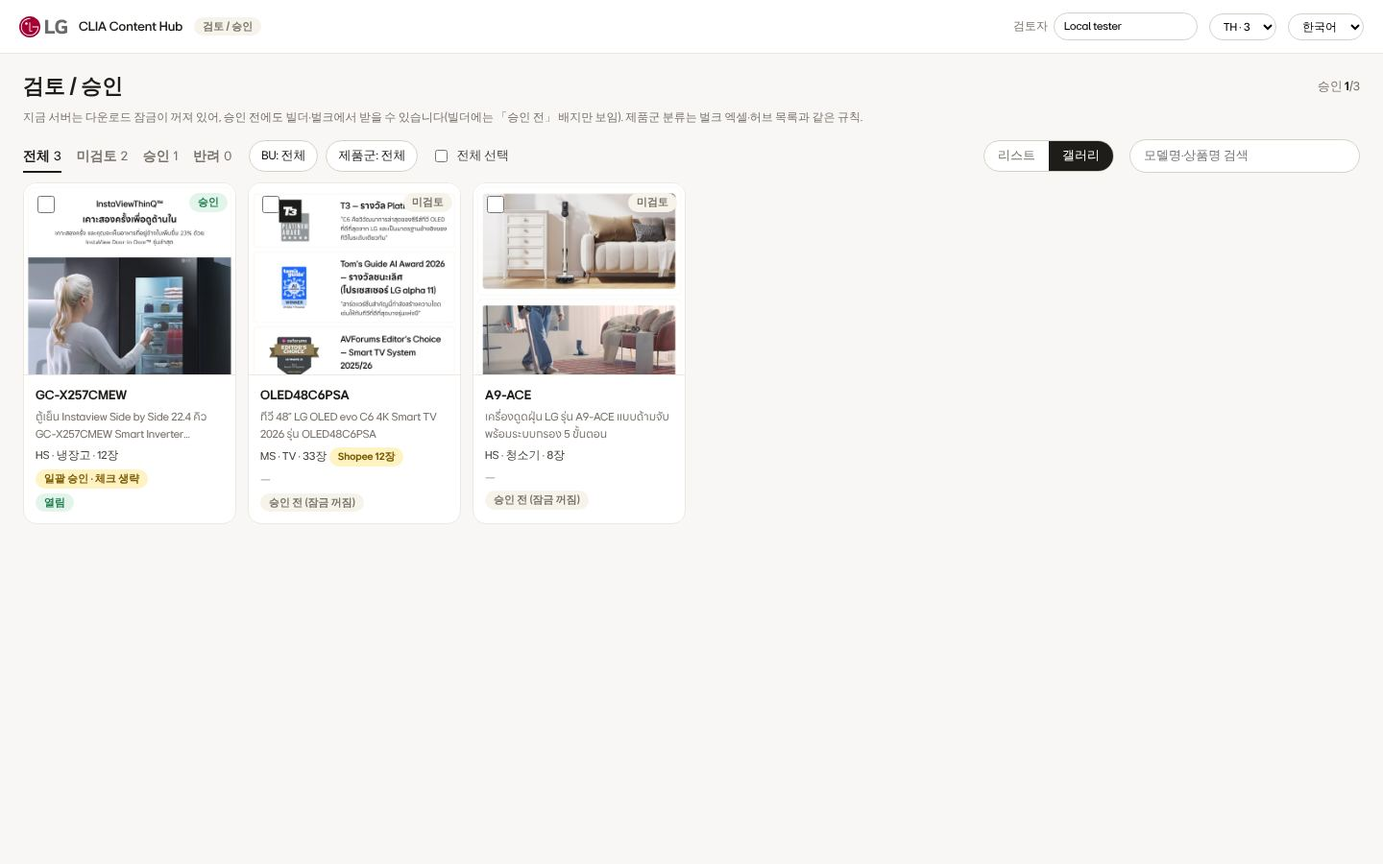
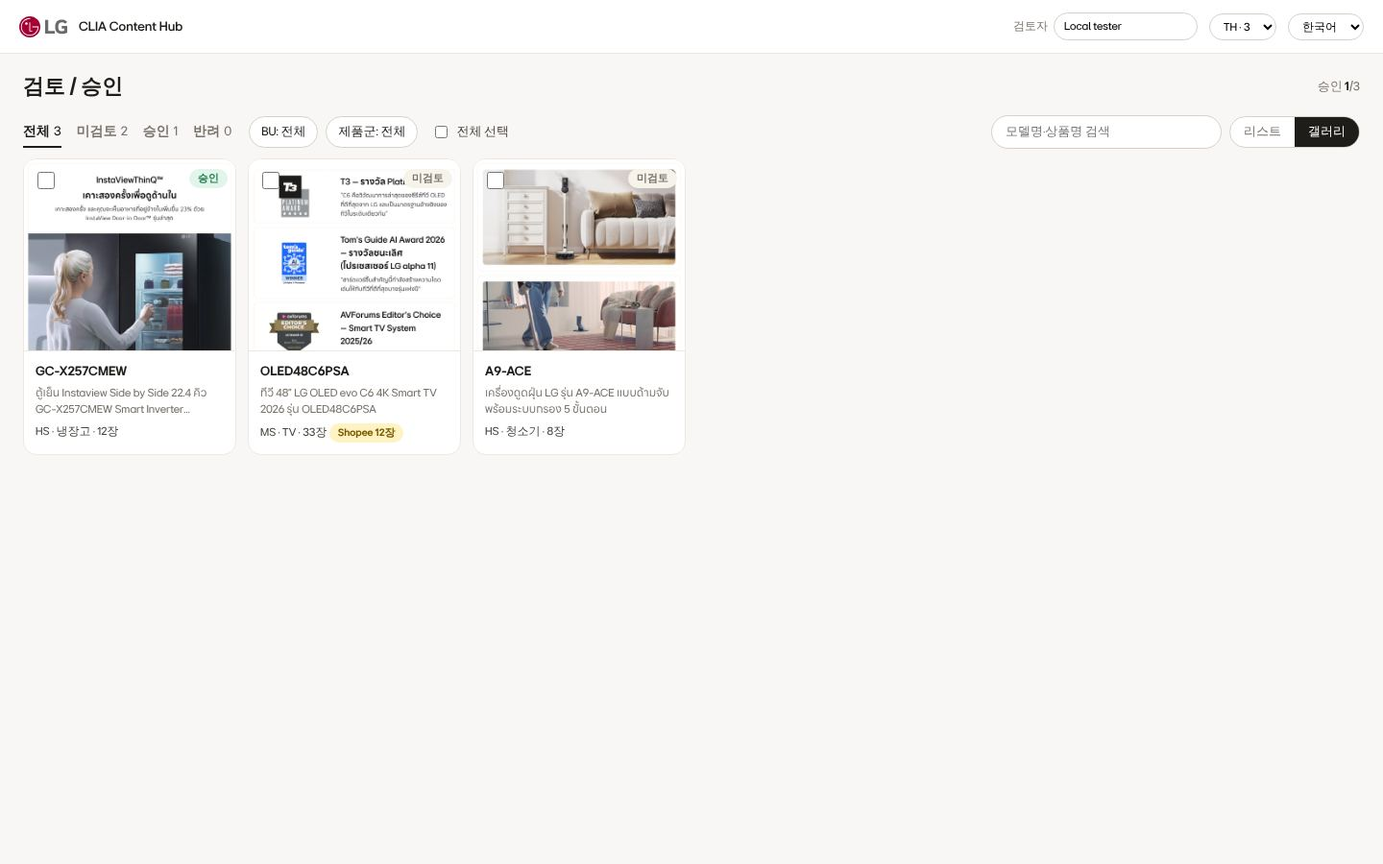
검토 화면 단순화: 버튼 자리 통일 · 덜 중요한 것 빼기
- 이동(←)은 왼쪽 위, 보기 전환(리스트/갤러리 · Shopee/Lazada)은 오른쪽 위 같은 토글,
  결정(승인 · 반려 · 승인 취소 · 선택 승인)은 오른쪽 아래 — 비교 화면은 체크리스트 아래에 코멘트와 함께
- 뺀 것: 안내 문단, 목록의 체크리스트·빌더 다운로드 칸, 선택 준비, LG.com 링크(상품명을 누르면 열림),
  빌더 배지, 패널 머리 부가 설명, 따로 뜨던 「기다리는 중」 배지(같은 영역 이름표 안으로)
- 체크리스트 「다름」 버튼은 지금 보는 항목 · 표시한 항목 · 마우스를 올린 항목에만

Claude-Session: https://claude.ai/code/session_01Qc8KZ9fFX6kBVHrq9Tv6ME

diff --git a/review/index.html b/review/index.html
@@ -65,12 +65,12 @@ td .m,.cb .m{font-weight:700}td .s{font-size:12px;color:var(--g500);max-width:42
 .cb .meta{font-size:12px;color:var(--g700)}
 .empty{text-align:center;color:#999;padding:30px}
 .more{text-align:center;padding:14px}
-.selbar{position:absolute;left:50%;bottom:18px;transform:translateX(-50%);background:var(--g900);color:#fff;border-radius:999px;padding:8px 10px 8px 18px;display:none;gap:10px;align-items:center;box-shadow:0 8px 24px rgba(0,0,0,.25)}
+.selbar{position:absolute;right:24px;bottom:18px;background:var(--g900);color:#fff;border-radius:999px;padding:8px 10px 8px 18px;display:none;gap:10px;align-items:center;box-shadow:0 8px 24px rgba(0,0,0,.25)}
 .selbar.on{display:flex}.selbar small{color:#cfc9bf}
 /* 비교 */
 .chd{display:flex;align-items:center;gap:12px;padding:10px 20px;background:#fff;border-bottom:1px solid var(--line)}
 .chd .id .m{font-weight:700;font-size:16px}.chd .id .s{font-size:12px;color:var(--g500);max-width:460px;white-space:nowrap;overflow:hidden;text-overflow:ellipsis}
-.chd .sp{flex:1}.chd a{font-size:12px;color:var(--g500)}
+.chd .sp{flex:1}.chd a.s{display:block;color:var(--g500);text-decoration:none}.chd a.s:hover{text-decoration:underline}
 .bar{display:flex;align-items:center;gap:8px;padding:8px 20px;background:#fff;border-bottom:1px solid var(--line)}
 .bar input{flex:1;border:1px solid var(--g300);border-radius:999px;padding:7px 14px;font:inherit;font-size:13px}.bar input.err{border-color:var(--bad)}
 .banner{padding:8px 20px;font-size:13px;background:var(--warnb);color:var(--warn);display:flex;gap:10px;align-items:center}.banner[hidden]{display:none}
@@ -105,7 +105,10 @@ td .m,.cb .m{font-weight:700}td .s{font-size:12px;color:var(--g500);max-width:42
 .prep h3{margin:0 0 10px;font-size:16px}.prep ol{margin:0 0 12px;padding-left:20px;font-size:13px;color:var(--g500)}.prep li.on{color:var(--g900);font-weight:700}.prep li.done{color:var(--ok)}
 .prep .err{color:var(--bad);font-size:13px;margin:0 0 10px;word-break:break-word}.prep p{font-size:12px;color:var(--g500);margin:0 0 12px}
 aside{display:flex;flex-direction:column;min-height:0;background:#fff;border-left:1px solid var(--line)}
-.ckh{padding:12px 16px 8px;border-bottom:1px solid var(--line)}.ckh b{font-size:14px}.ckh .p{font-size:12px;color:var(--g500);margin-top:2px}
+.ckh{padding:12px 16px 10px;border-bottom:1px solid var(--line)}.ckh b{font-size:14px}.ckh .p{font-size:12px;color:var(--g500);margin-left:8px}
+.ckf{border-top:1px solid var(--line);padding:10px 12px 12px;display:grid;gap:8px;background:#fff}.ckf .why{font-size:12px;color:var(--g500);min-height:16px}
+.ckf input{width:100%;border:1px solid var(--g300);border-radius:999px;padding:7px 14px;font:inherit;font-size:13px}.ckf input.err{border-color:var(--bad)}
+.ckf .acts{display:flex;gap:8px;justify-content:flex-end}
 .ckh .prog{width:100%;height:6px;margin:8px 0 0}
 .ckl{flex:1;overflow:auto;padding:6px 8px 40px}
 .it{border-radius:10px;padding:8px 10px;margin:2px 0;cursor:pointer;border:1px solid transparent}
@@ -114,7 +117,7 @@ aside{display:flex;flex-direction:column;min-height:0;background:#fff;border-lef
 .it .ic{flex:none;width:18px;height:18px;border-radius:50%;border:2px solid var(--g300);display:inline-flex;align-items:center;justify-content:center;font-size:11px;color:#fff}
 .it.seen .ic{background:var(--ok);border-color:var(--ok)}.it.seen .ic::after{content:'✓'}
 .it.flag .ic{background:var(--bad);border-color:var(--bad)}.it.flag .ic::after{content:'!'}
-.it .t .x{margin-left:auto}.it .t .x button{border:1px solid var(--g300);background:#fff;border-radius:999px;font-size:11px;padding:1px 8px;color:var(--g500);white-space:nowrap}
+.it .t .x{margin-left:auto;visibility:hidden}.it.cur .t .x,.it.flag .t .x,.it:hover .t .x{visibility:visible}.it .t .x button{border:1px solid var(--g300);background:#fff;border-radius:999px;font-size:11px;padding:1px 8px;color:var(--g500);white-space:nowrap}
 .it.flag .t .x button{border-color:var(--bad);color:var(--bad)}
 .it .look{display:none;margin:6px 0 2px 26px;font-size:12px;color:var(--g700)}.it.cur .look,.it.flag .look{display:block}
 .it .look ul{margin:2px 0 6px;padding-left:16px}.it .look li{margin:1px 0}.it .look .sec{color:var(--g500);font-size:11.5px}
@@ -123,7 +126,7 @@ aside{display:flex;flex-direction:column;min-height:0;background:#fff;border-lef
 .toast{position:fixed;left:50%;bottom:24px;transform:translateX(-50%);background:var(--g900);color:#fff;padding:9px 16px;border-radius:999px;font-size:13px;opacity:0;transition:opacity .2s;pointer-events:none;z-index:50}.toast.on{opacity:1}
 </style></head>
 <body>
-<div class="top"><img src="/shared/assets/lg-logo.svg" alt="LG"><span class="t">CLIA Content Hub</span><span class="badge b-q" data-t="appTag"></span><span class="sp"></span>
+<div class="top"><img src="/shared/assets/lg-logo.svg" alt="LG"><span class="t">CLIA Content Hub</span><span class="sp"></span>
  <label class="who"><span data-t="who"></span><input id="who" data-tp="whoPh" autocomplete="name" onchange="setWho(this.value)"></label>
  <select class="sel" id="country" onchange="setCountry(this.value)" aria-label="Country"></select>
  <select class="sel" id="lang" onchange="setLang(this.value)" aria-label="Language"><option value="th">ไทย</option><option value="en">English</option><option value="ko">한국어</option></select>
@@ -131,43 +134,43 @@ aside{display:flex;flex-direction:column;min-height:0;background:#fff;border-lef
 
 <main class="view on" id="vList">
  <div class="lhd"><h2 data-t="h"></h2><span class="sp"></span><span class="cnt" id="okCnt"></span></div>
- <div class="note" id="gateNote"></div>
  <div class="flt">
   <div class="tabs" id="tabs"></div>
   <details class="dd" id="ddDv"><summary id="sDv"></summary><div class="ddp" id="pDv"></div></details>
   <details class="dd" id="ddGrp"><summary id="sGrp"></summary><div class="ddp" id="pGrp"></div></details>
   <label class="selall"><input type="checkbox" id="selAll" onchange="selAll(this.checked)"><span data-t="selAll"></span></label>
   <span class="sp"></span>
-  <div class="seg" id="viewSeg"><button data-v="list" onclick="setView('list')" data-t="viewList"></button><button data-v="grid" onclick="setView('grid')" data-t="viewGrid"></button></div>
   <input class="search" id="q" type="search" data-tp="search" oninput="S.q=this.value;S.page=1;renderList()">
+  <div class="seg" id="viewSeg"><button data-v="list" onclick="setView('list')" data-t="viewList"></button><button data-v="grid" onclick="setView('grid')" data-t="viewGrid"></button></div>
  </div>
  <div class="tbl" id="listBox"><table><thead><tr>
-  <th style="width:36px"></th><th style="width:56px"></th><th data-t="thProd"></th><th data-t="thGrp"></th><th data-t="thImgs"></th><th data-t="thCk"></th><th data-t="thBuild"></th><th data-t="thSt"></th></tr></thead>
+  <th style="width:36px"></th><th style="width:56px"></th><th data-t="thProd"></th><th data-t="thGrp"></th><th data-t="thImgs"></th><th data-t="thSt"></th></tr></thead>
   <tbody id="rows"></tbody></table><div class="more" id="moreL"></div></div>
  <div class="gal" id="galBox" hidden><div class="cards" id="cards"></div><div class="more" id="moreG"></div></div>
- <div class="selbar" id="selbar"><span id="selN"></span><small data-t="selNote"></small><button class="btn" onclick="bulkPrepare()" data-t="prepSel"></button><button class="btn pri" onclick="bulkApprove()" data-t="approveSel"></button><button class="btn" onclick="S.sel.clear();renderList()" data-t="cancel"></button></div>
+ <div class="selbar" id="selbar"><span id="selN"></span><button class="btn" onclick="S.sel.clear();renderList()" data-t="cancel"></button><button class="btn pri" onclick="bulkApprove()" data-t="approveSel"></button></div>
 </main>
 
 <main class="view" id="vCmp">
- <div class="chd"><button class="btn" onclick="closeCmp()">←</button><div class="id"><div class="m" id="cModel"></div><div class="s" id="cTitle" lang="th"></div></div>
-  <span id="cSt"></span><span id="cBuild"></span><a id="cLink" target="_blank" rel="noopener" data-t="openLg"></a><span class="sp"></span>
-  <div class="tabs"><button class="tab" data-c="shopee" onclick="setCh('shopee')">Shopee</button><button class="tab" data-c="lazada" onclick="setCh('lazada')">Lazada</button></div></div>
- <div class="bar"><input id="cmt" data-tp="cmtPh"><button class="btn" id="bUndo" hidden onclick="unapprove()" data-t="unapprove"></button><button class="btn" id="bRej" onclick="reject()" data-t="reject"></button><span class="badge b-q" id="bWhy"></span><button class="btn pri" id="bOk" onclick="approve()" data-t="approve"></button></div>
+ <div class="chd"><button class="btn" onclick="closeCmp()">←</button><div class="id"><div class="m" id="cModel"></div><a class="s" id="cTitle" lang="th" target="_blank" rel="noopener"></a></div>
+  <span id="cSt"></span><span class="sp"></span>
+  <div class="seg" id="chSeg"><button data-c="shopee" onclick="setCh('shopee')">Shopee</button><button data-c="lazada" onclick="setCh('lazada')">Lazada</button></div></div>
  <div class="banner" id="banner" hidden><span id="bannerTx"></span><button class="btn sm" onclick="prepareCur(false)" data-t="reprep"></button></div>
  <div class="main">
   <div class="sc" id="sc">
    <div class="stage" id="stage">
-    <section class="pane"><div class="ph"><span data-t="lgHead"></span> <small data-t="lgSub"></small><span class="r"><span class="badge b-warn" id="cropWarn" hidden></span><span class="badge b-warn wait" id="wL" hidden data-t="waitL"></span><button class="btn sm" id="cropBtn" onclick="toggleCrop()" data-t="cropBtn"></button></span></div>
+    <section class="pane"><div class="ph"><span>LG.com</span><span class="r"><span class="badge b-warn" id="cropWarn" hidden></span><button class="btn sm" id="cropBtn" onclick="toggleCrop()" data-t="cropBtn"></button></span></div>
      <div class="crop-ed" id="cropEd" hidden><span data-t="cropTop"></span><button class="btn sm" onclick="nudge('top',-100)">−100</button><button class="btn sm" onclick="nudge('top',-10)">−10</button><input id="cTop" type="number" onchange="cropInput()"><button class="btn sm" onclick="nudge('top',10)">+10</button><button class="btn sm" onclick="nudge('top',100)">+100</button>
       <span data-t="cropBottom" style="margin-left:8px"></span><button class="btn sm" onclick="nudge('bottom',-100)">−100</button><button class="btn sm" onclick="nudge('bottom',-10)">−10</button><input id="cBot" type="number" onchange="cropInput()"><button class="btn sm" onclick="nudge('bottom',10)">+10</button><button class="btn sm" onclick="nudge('bottom',100)">+100</button>
       <span class="sp" style="flex:1"></span><button class="btn sm" onclick="cropAuto()" data-t="cropAuto"></button><button class="btn sm" onclick="recapture()" data-t="recapture"></button><button class="btn sm pri" onclick="cropSave()" data-t="cropSave"></button></div>
      <div class="vp" id="vpL"><div class="mv" id="mvL"></div><div class="segbox" id="segL" hidden></div><span class="segtag" id="segTagL"></span></div></section>
-    <section class="pane"><div class="ph"><span id="rTitle"></span> <small id="rSub"></small><span class="r"><span class="badge b-warn wait" id="wR" hidden data-t="waitR"></span></span></div><div class="vp" id="vpR"><div class="mv" id="mvR"></div><div class="segbox" id="segR" hidden></div><span class="segtag" id="segTagR"></span></div></section>
+    <section class="pane"><div class="ph"><span id="rTitle"></span><span class="r"><span class="badge b-warn" id="imgWarn" hidden></span></span></div><div class="vp" id="vpR"><div class="mv" id="mvR"></div><div class="segbox" id="segR" hidden></div><span class="segtag" id="segTagR"></span></div></section>
    </div>
    <div id="spacer"></div><div id="snaps"></div>
    <div class="prep" id="prep"><div class="box" id="prepBox"></div></div>
   </div>
-  <aside><div class="ckh"><b data-t="ck"></b><div class="p" id="ckP"></div><div class="p" data-t="segHint"></div><div class="prog"><i id="ckBar"></i></div></div><div class="ckl" id="ckl"></div></aside>
+  <aside><div class="ckh"><b data-t="ck"></b><span class="p" id="ckP"></span><div class="prog"><i id="ckBar"></i></div></div><div class="ckl" id="ckl"></div>
+   <div class="ckf"><div class="why" id="bWhy"></div><input id="cmt" data-tp="cmtPh">
+    <div class="acts"><button class="btn" id="bUndo" hidden onclick="unapprove()" data-t="unapprove"></button><button class="btn" id="bRej" onclick="reject()" data-t="reject"></button><button class="btn pri" id="bOk" onclick="approve()" data-t="approve"></button></div></div></aside>
  </div>
 </main>
 <div class="toast" id="toast"></div>
@@ -175,7 +178,7 @@ aside{display:flex;flex-direction:column;min-height:0;background:#fff;border-lef
 <script>
 // ── 화면 문구 (한국어 · English · ไทย). 제품군 이름은 벌크 엑셀(bulk/bulk-i18n.js)과 같은 낱말. 태국어는 태국 법인 확인 전 ──
 const TX={
- ko:{appTag:'검토 / 승인',segSum:'PDP 요약',segIntro:'도입 (대표 이미지)',segN:n=>`섹션 ${n}`,segNoneL:'LG.com에 없음 · 기다리는 중',segNoneR:'여기는 없음 · 기다리는 중',segHint:'같은 번호·색 = 같은 영역',who:'검토자',whoPh:'이름 (승인 기록에 남음)',whoNeed:'검토자 이름을 먼저 넣어 주세요',h:'검토 / 승인',
+ ko:{appTag:'검토 / 승인',waitShort:'기다리는 중',segSum:'PDP 요약',segIntro:'도입 (대표 이미지)',segN:n=>`섹션 ${n}`,segNoneL:'LG.com에 없음 · 기다리는 중',segNoneR:'여기는 없음 · 기다리는 중',segHint:'같은 번호·색 = 같은 영역',who:'검토자',whoPh:'이름 (승인 기록에 남음)',whoNeed:'검토자 이름을 먼저 넣어 주세요',h:'검토 / 승인',
   gateOn:'승인 전 제품은 빌더의 이미지 ZIP·HTML 복사와 벌크 엑셀 받기가 잠깁니다.',gateOff:'지금 서버는 다운로드 잠금이 꺼져 있어, 승인 전에도 빌더·벌크에서 받을 수 있습니다(빌더에는 「승인 전」 배지만 보임). 제품군 분류는 벌크 엑셀·허브 목록과 같은 규칙.',
   tabAll:'전체',tabUnrev:'미검토',tabOk:'승인',tabRej:'반려',stUnrev:'미검토',stStale:'다시 확인',stOk:'승인',stRej:'반려',
   grpBtn:'제품군',all:'전체',none:'선택 안 함',grpHint:'선택한 BU의 제품군만 고를 수 있습니다',search:'모델명·상품명 검색',viewList:'리스트',viewGrid:'갤러리',selAll:'전체 선택',
@@ -185,7 +188,7 @@ const TX={
   selN:n=>`${n}개 선택`,selNote:'선택 승인은 체크리스트를 건너뛴 일괄 승인으로 기록됩니다',approveSel:'선택 승인',prepSel:'선택 준비',cancel:'취소',okCnt:(n,a)=>`승인 <b>${n}</b>/${a}`,
   bulkToast:n=>`${n}개 일괄 승인`,bulkAsk:n=>`${n}개를 체크리스트 없이 승인할까요? 승인 기록에 「일괄 승인」으로 남습니다.`,prepToast:n=>`${n}개 준비 시작 (한 번에 2개씩)`,saveErr:e=>`저장하지 못함: ${e}`,loadErr:e=>`불러오지 못함: ${e}`,
   cmtPh:'코멘트 (반려할 때 필요)',reject:'반려',approve:'승인',unapprove:'승인 취소',lgHead:'LG.COM 원본',lgSub:'PDP 첫 섹션 ~ 스펙 끝 · 전체 화면 캡처',waitL:'LG.com 끝 · 기다리는 중',waitR:'결과 끝 · 기다리는 중',openLg:'LG.com 열기 ↗',
-  rTitle:c=>`${c} 상세 설명`,rSub:'모바일 390 (폭 추정)',srcEdit:'빌더 편집본',srcCrawl:'크롤 결과로 만든 것',ck:'체크리스트',ckP:(c,a,b,n,all)=>`${c} 항목 ${a}/${b} 봤음 · 두 채널 합계 ${n}/${all}`,flag:'다름',flagOn:'다름 ✕',flagNote:'다름',
+  rTitle:c=>`${c} 상세 설명`,rSub:'모바일 390 (폭 추정)',srcEdit:'빌더 편집본',srcCrawl:'크롤 결과로 만든 것',ck:'체크리스트',ckP:(c,a,b,n,all)=>`${n}/${all}`,flag:'다름',flagOn:'다름 ✕',flagNote:'다름',
   uspHead:'이 이미지의 lg.com USP',est:(a,b)=>`추정 ${a}~${b}장`,estT:'이미지 글에서 이 USP 이름을 찾지 못해 앞뒤 USP 사이로 추정',more:n=>`… ${n}개 더`,
   whyDone:'이미 승인됨',whyFlag:n=>`다름 ${n}건 — 반려하세요`,whyProg:(n,a)=>`체크리스트 ${n}/${a} — 두 채널 끝까지 보기`,whyPrep:'두 채널 준비가 끝나야 승인할 수 있어요',whyStale:'내용이 바뀌었어요 — 다시 준비',
   bLock:'빌더 🔒 승인 전',bLockOff:'빌더: 승인 전 (잠금 꺼짐)',bLockT:'승인 전에는 빌더 다운로드·복사 잠김',bOpen:'빌더 다운로드 열림',okToast:'승인했어요',rejPh:'반려 사유를 입력하세요',rejToast:'반려했어요',undoToast:'승인을 취소했어요',
@@ -199,7 +202,7 @@ const TX={
   staleTx:'준비한 뒤 크롤·편집본·요약 또는 lg.com 캡처가 바뀌었어요. 보이는 것은 예전 내용입니다.',reprep:'다시 준비',imgFail:s=>`이미지 일부를 못 불러온 채 만들어짐 (${s})`,
   cropBtn:'범위 맞추기',cropTop:'시작(px)',cropBottom:'끝(px)',cropAuto:'자동으로',cropSave:'저장',recapture:'다시 캡처',cropSaved:'lg.com 범위를 저장했어요',cropAutoT:'자동 범위로 돌렸어요',
   cropWarnTop:'시작 자동 감지 못 함',cropWarnBot:'끝 자동 감지 못 함',cropManual:'사람이 맞춘 범위',noShot:e=>`lg.com 캡처가 없어요 (${e}). 「다시 캡처」를 눌러 주세요.`,recapToast:'lg.com을 다시 캡처하고 있어요 (1~2분)'},
- en:{appTag:'Review / Approve',segSum:'PDP summary',segIntro:'Intro (main image)',segN:n=>`Section ${n}`,segNoneL:'not on LG.com · waiting',segNoneR:'not here · waiting',segHint:'Same number and color = same area',who:'Reviewer',whoPh:'Name (saved with approvals)',whoNeed:'Enter the reviewer name first',h:'Review / Approve',
+ en:{appTag:'Review / Approve',waitShort:'waiting',segSum:'PDP summary',segIntro:'Intro (main image)',segN:n=>`Section ${n}`,segNoneL:'not on LG.com · waiting',segNoneR:'not here · waiting',segHint:'Same number and color = same area',who:'Reviewer',whoPh:'Name (saved with approvals)',whoNeed:'Enter the reviewer name first',h:'Review / Approve',
   gateOn:'Products that are not approved cannot be downloaded from the builder (image ZIP, HTML copy) or bulk Excel.',gateOff:'The download lock is off on this server, so builder and bulk downloads still work before approval (the builder only shows a “Not approved” badge). Product groups follow the same rules as Bulk Excel and the hub list.',
   tabAll:'All',tabUnrev:'To review',tabOk:'Approved',tabRej:'Rejected',stUnrev:'To review',stStale:'Check again',stOk:'Approved',stRej:'Rejected',
   grpBtn:'Product group',all:'All',none:'None',grpHint:'Only groups in the selected BUs can be chosen',search:'Search model or product name',viewList:'List',viewGrid:'Gallery',selAll:'Select all',
@@ -209,7 +212,7 @@ const TX={
   selN:n=>`${n} selected`,selNote:'Approve selected is saved as a bulk approval without the checklist',approveSel:'Approve selected',prepSel:'Prepare selected',cancel:'Cancel',okCnt:(n,a)=>`Approved <b>${n}</b>/${a}`,
   bulkToast:n=>`${n} approved in bulk`,bulkAsk:n=>`Approve ${n} products without the checklist? The record will say “bulk approval”.`,prepToast:n=>`Preparing ${n} (2 at a time)`,saveErr:e=>`Could not save: ${e}`,loadErr:e=>`Could not load: ${e}`,
   cmtPh:'Comment (required to reject)',reject:'Reject',approve:'Approve',unapprove:'Undo approval',lgHead:'LG.COM ORIGINAL',lgSub:'First PDP section to end of specs · full-page capture',waitL:'End of LG.com · waiting',waitR:'End of result · waiting',openLg:'Open LG.com ↗',
-  rTitle:c=>`${c} DESCRIPTION`,rSub:'Mobile 390 (estimated width)',srcEdit:'Builder edit',srcCrawl:'Made from the crawl',ck:'Checklist',ckP:(c,a,b,n,all)=>`${c}: ${a}/${b} viewed · both channels ${n}/${all}`,flag:'Different',flagOn:'Different ✕',flagNote:'different',
+  rTitle:c=>`${c} DESCRIPTION`,rSub:'Mobile 390 (estimated width)',srcEdit:'Builder edit',srcCrawl:'Made from the crawl',ck:'Checklist',ckP:(c,a,b,n,all)=>`${n}/${all}`,flag:'Different',flagOn:'Different ✕',flagNote:'different',
   uspHead:'lg.com USPs in this image',est:(a,b)=>`est. image ${a}–${b}`,estT:'This USP name was not found in the image text, so it is placed between the USPs before and after it',more:n=>`… ${n} more`,
   whyDone:'Already approved',whyFlag:n=>`${n} marked different — reject`,whyProg:(n,a)=>`Checklist ${n}/${a} — scroll both channels to the end`,whyPrep:'Both channels must be prepared before approval',whyStale:'The content changed — prepare again',
   bLock:'Builder 🔒 not approved',bLockOff:'Builder: not approved (lock off)',bLockT:'Builder downloads and copies are locked until approval',bOpen:'Builder downloads open',okToast:'Approved',rejPh:'Enter a reason to reject',rejToast:'Rejected',undoToast:'Approval undone',
@@ -223,7 +226,7 @@ const TX={
   staleTx:'The crawl, builder edit, summary or lg.com capture changed after this was prepared. You are looking at the old content.',reprep:'Prepare again',imgFail:s=>`Made while some images failed to load (${s})`,
   cropBtn:'Adjust range',cropTop:'Start (px)',cropBottom:'End (px)',cropAuto:'Automatic',cropSave:'Save',recapture:'Capture again',cropSaved:'lg.com range saved',cropAutoT:'Back to the automatic range',
   cropWarnTop:'Start not detected',cropWarnBot:'End not detected',cropManual:'Range set by a person',noShot:e=>`No lg.com capture (${e}). Press “Capture again”.`,recapToast:'Capturing lg.com again (1–2 minutes)'},
- th:{appTag:'ตรวจสอบ / อนุมัติ',segSum:'สรุป PDP',segIntro:'ส่วนแนะนำ (ภาพหลัก)',segN:n=>`ส่วนที่ ${n}`,segNoneL:'ไม่มีใน LG.com · รออยู่',segNoneR:'ไม่มีในส่วนนี้ · รออยู่',segHint:'หมายเลขและสีเดียวกัน = ส่วนเดียวกัน',who:'ผู้ตรวจ',whoPh:'ชื่อ (บันทึกพร้อมการอนุมัติ)',whoNeed:'กรุณาใส่ชื่อผู้ตรวจก่อน',h:'ตรวจสอบ / อนุมัติ',
+ th:{appTag:'ตรวจสอบ / อนุมัติ',waitShort:'รออยู่',segSum:'สรุป PDP',segIntro:'ส่วนแนะนำ (ภาพหลัก)',segN:n=>`ส่วนที่ ${n}`,segNoneL:'ไม่มีใน LG.com · รออยู่',segNoneR:'ไม่มีในส่วนนี้ · รออยู่',segHint:'หมายเลขและสีเดียวกัน = ส่วนเดียวกัน',who:'ผู้ตรวจ',whoPh:'ชื่อ (บันทึกพร้อมการอนุมัติ)',whoNeed:'กรุณาใส่ชื่อผู้ตรวจก่อน',h:'ตรวจสอบ / อนุมัติ',
   gateOn:'สินค้าที่ยังไม่อนุมัติจะดาวน์โหลด ZIP รูปภาพ คัดลอก HTML ในตัวสร้าง และ Bulk Excel ไม่ได้',gateOff:'เซิร์ฟเวอร์นี้ปิดการล็อกดาวน์โหลดอยู่ จึงยังดาวน์โหลดจากตัวสร้างและ Bulk ได้ก่อนอนุมัติ (ตัวสร้างแสดงแค่ป้าย “ยังไม่อนุมัติ”) กลุ่มสินค้าใช้กฎเดียวกับ Bulk Excel และรายการในฮับ',
   tabAll:'ทั้งหมด',tabUnrev:'รอตรวจ',tabOk:'อนุมัติแล้ว',tabRej:'ปฏิเสธ',stUnrev:'รอตรวจ',stStale:'ตรวจอีกครั้ง',stOk:'อนุมัติแล้ว',stRej:'ปฏิเสธ',
   grpBtn:'กลุ่มสินค้า',all:'ทั้งหมด',none:'ไม่ได้เลือก',grpHint:'เลือกได้เฉพาะกลุ่มสินค้าของ BU ที่เลือก',search:'ค้นหารุ่นหรือชื่อสินค้า',viewList:'รายการ',viewGrid:'แกลเลอรี',selAll:'เลือกทั้งหมด',
@@ -233,7 +236,7 @@ const TX={
   selN:n=>`เลือก ${n} รายการ`,selNote:'อนุมัติที่เลือกจะบันทึกเป็นการอนุมัติแบบกลุ่มโดยไม่ผ่านเช็กลิสต์',approveSel:'อนุมัติที่เลือก',prepSel:'เตรียมที่เลือก',cancel:'ยกเลิก',okCnt:(n,a)=>`อนุมัติแล้ว <b>${n}</b>/${a}`,
   bulkToast:n=>`อนุมัติแบบกลุ่ม ${n} รายการ`,bulkAsk:n=>`อนุมัติ ${n} รายการโดยไม่ผ่านเช็กลิสต์หรือไม่? บันทึกจะแสดงว่า “อนุมัติแบบกลุ่ม”`,prepToast:n=>`เริ่มเตรียม ${n} รายการ (ครั้งละ 2)`,saveErr:e=>`บันทึกไม่สำเร็จ: ${e}`,loadErr:e=>`โหลดไม่สำเร็จ: ${e}`,
   cmtPh:'ความคิดเห็น (จำเป็นเมื่อปฏิเสธ)',reject:'ปฏิเสธ',approve:'อนุมัติ',unapprove:'ยกเลิกการอนุมัติ',lgHead:'ต้นฉบับ LG.COM',lgSub:'ตั้งแต่ส่วนแรกของ PDP ถึงท้ายสเปค · ภาพหน้าจอทั้งหน้า',waitL:'สุดหน้า LG.com · รออยู่',waitR:'สุดผลลัพธ์ · รออยู่',openLg:'เปิด LG.com ↗',
-  rTitle:c=>`รายละเอียดสินค้า ${c}`,rSub:'มือถือ 390 (ความกว้างโดยประมาณ)',srcEdit:'ฉบับแก้ไขในตัวสร้าง',srcCrawl:'สร้างจากข้อมูลที่ครอว์ล',ck:'เช็กลิสต์',ckP:(c,a,b,n,all)=>`${c}: ดูแล้ว ${a}/${b} · รวม 2 ช่องทาง ${n}/${all}`,flag:'ไม่ตรง',flagOn:'ไม่ตรง ✕',flagNote:'ไม่ตรง',
+  rTitle:c=>`รายละเอียดสินค้า ${c}`,rSub:'มือถือ 390 (ความกว้างโดยประมาณ)',srcEdit:'ฉบับแก้ไขในตัวสร้าง',srcCrawl:'สร้างจากข้อมูลที่ครอว์ล',ck:'เช็กลิสต์',ckP:(c,a,b,n,all)=>`${n}/${all}`,flag:'ไม่ตรง',flagOn:'ไม่ตรง ✕',flagNote:'ไม่ตรง',
   uspHead:'USP ของ lg.com ในภาพนี้',est:(a,b)=>`ประมาณภาพที่ ${a}–${b}`,estT:'ไม่พบชื่อ USP นี้ในข้อความของภาพ จึงประมาณว่าอยู่ระหว่าง USP ก่อนและหลัง',more:n=>`… อีก ${n} รายการ`,
   whyDone:'อนุมัติแล้ว',whyFlag:n=>`ไม่ตรง ${n} รายการ — กรุณาปฏิเสธ`,whyProg:(n,a)=>`เช็กลิสต์ ${n}/${a} — เลื่อนดูทั้ง 2 ช่องทางจนจบ`,whyPrep:'ต้องเตรียมทั้ง 2 ช่องทางให้เสร็จก่อนอนุมัติ',whyStale:'เนื้อหาเปลี่ยน — เตรียมใหม่',
   bLock:'ตัวสร้าง 🔒 ยังไม่อนุมัติ',bLockOff:'ตัวสร้าง: ยังไม่อนุมัติ (ปิดล็อก)',bLockT:'ล็อกการดาวน์โหลดและคัดลอกในตัวสร้างจนกว่าจะอนุมัติ',bOpen:'เปิดการดาวน์โหลดในตัวสร้างแล้ว',okToast:'อนุมัติแล้ว',rejPh:'กรุณาใส่เหตุผลที่ปฏิเสธ',rejToast:'ปฏิเสธแล้ว',undoToast:'ยกเลิกการอนุมัติแล้ว',
@@ -279,7 +282,7 @@ function safeHtml(h){const d=new DOMParser().parseFromString(String(h||''),'text
 
 function applyStatic(){document.documentElement.lang=S.lang;$('lang').value=S.lang;
   document.querySelectorAll('[data-t]').forEach(e=>e.textContent=t(e.dataset.t));document.querySelectorAll('[data-tp]').forEach(e=>e.placeholder=t(e.dataset.tp));
-  $('who').value=S.who;$('gateNote').textContent=S.gate?t('gateOn'):t('gateOff');}
+  $('who').value=S.who;}
 function setLang(l){S.lang=TX[l]?l:'en';ls.set('clia-review-lang',S.lang);try{const u=new URL(location.href);u.searchParams.set('lang',S.lang);history.replaceState(null,'',u);}catch(_){}
   applyStatic();if(C)renderCmp(false,G?G.s:0);else renderList();}
 function setWho(v){S.who=String(v||'').trim().slice(0,120);ls.set('clia-review-who',S.who);$('who').classList.remove('err');}
@@ -338,11 +341,11 @@ function renderList(){
   if(!grid){$('rows').innerHTML=rows.map(p=>`<tr class="r ${S.sel.has(p.slug)?'sel':''}" onclick="openCmp('${p.slug}')">
     <td>${box(p)}</td><td class="th">${img(p)}</td>
     <td><div class="m">${esc(p.model)}</div><div class="s" lang="th">${esc(p.title)}</div></td>
-    <td>${p.dv} · ${gname(p.grp)}</td><td>${prepCell(p)}</td><td>${ckCell(p)}</td><td>${lockBadge(p)}</td><td>${stBadge(p)}</td></tr>`).join('')||`<tr><td colspan="8" class="empty">${t('empty')}</td></tr>`;$('moreL').innerHTML=more;}
+    <td>${p.dv} · ${gname(p.grp)}</td><td>${prepCell(p)}</td><td>${stBadge(p)}</td></tr>`).join('')||`<tr><td colspan="6" class="empty">${t('empty')}</td></tr>`;$('moreL').innerHTML=more;}
   else{$('cards').innerHTML=rows.map(p=>`<div class="card ${S.sel.has(p.slug)?'sel':''}" onclick="openCmp('${p.slug}')">
     <div class="cimg">${img(p)}${box(p)}<span class="cst">${stBadge(p)}</span></div>
     <div class="cb"><div class="m">${esc(p.model)}</div><div class="s" lang="th">${esc(p.title)}</div>
-    <div class="meta">${p.dv} · ${gname(p.grp)} · ${prepCell(p)}</div><div class="meta">${ckCell(p)}</div><div class="meta">${lockBadge(p)}</div></div></div>`).join('')||`<div class="empty">${t('empty')}</div>`;$('moreG').innerHTML=more;}
+    <div class="meta">${p.dv} · ${gname(p.grp)} · ${prepCell(p)}</div></div></div>`).join('')||`<div class="empty">${t('empty')}</div>`;$('moreG').innerHTML=more;}
   $('selAll').checked=all.length>0&&all.every(p=>S.sel.has(p.slug));$('selAll').disabled=!all.length;
   $('selbar').classList.toggle('on',S.sel.size>0);$('selN').textContent=t('selN',S.sel.size);
   const n=DATA.filter(p=>stOf(p)==='ok').length;$('okCnt').innerHTML=t('okCnt',n,DATA.length);
@@ -444,14 +447,14 @@ function renderPrep(){
 }
 function renderCmp(fresh,keepS){
   if(!C)return;const p=C.p,ch=C.ch,shp=ch==='shopee',d=C.d[ch];
-  $('cModel').textContent=p.model;$('cTitle').textContent=p.title;$('cLink').href=p.url;
-  document.querySelectorAll('#vCmp .tabs .tab').forEach(b=>b.classList.toggle('on',b.dataset.c===ch));
+  $('cModel').textContent=p.model;$('cTitle').textContent=p.title;$('cTitle').href=p.url;
+  document.querySelectorAll('#chSeg button').forEach(b=>b.classList.toggle('on',b.dataset.c===ch));
   $('rTitle').textContent=t('rTitle',shp?'SHOPEE':'LAZADA');
   renderPrep();
   const stale=CHS.some(c=>C.st[c]&&C.st[c].state==='stale');$('banner').hidden=!stale;$('bannerTx').textContent=t('staleTx');
   renderBar();
   if(!d){$('mvL').innerHTML='';$('mvR').innerHTML='';$('ckl').innerHTML='';$('ckP').textContent='';G=null;$('spacer').style.height='0px';$('snaps').innerHTML='';return;}
-  $('rSub').textContent=t('rSub')+' · '+(d.source==='edit'?t('srcEdit'):t('srcCrawl'))+(d.images_loaded&&/^(\d+)\/(\d+)$/.test(d.images_loaded)&&RegExp.$1!==RegExp.$2?' · ⚠ '+t('imgFail',d.images_loaded):'');
+  {const m=/^(\d+)\/(\d+)$/.exec(d.images_loaded||''),w=$('imgWarn');w.hidden=!(m&&m[1]!==m[2]);w.textContent=w.hidden?'':'⚠ '+t('imgFail',d.images_loaded);}   // 이미지 일부를 못 불러온 채 만들어졌을 때만
   renderLeft();
   const n=shp?d.shopeeN:d.slices.length,hasSum=shp?d.sumText:d.sum;
   const sum=!hasSum?`<div class="nosum" data-a="sum">${esc(d.summaryErr?t('noSumErr',d.summaryErr):t('noSum'))}</div>`:shp?`<pre class="stxt" data-a="sum" lang="th">${esc(d.sumText)}</pre>`:`<div class="lsum" data-a="sum" lang="th">${safeHtml(d.sum)}</div>`;
@@ -537,21 +540,21 @@ function update(){
   const l=Math.min(posL,G.lmax),r=Math.min(posR,G.rmax);
   $('mvR').style.transform=`translate3d(0,${-r}px,0)`;$('mvL').style.transform=`translate3d(0,${-l}px,0)`;
   const doneL=tt>=g.dl||posL>=G.lmax,doneR=tt>=g.dr||posR>=G.rmax;
-  $('wL').hidden=!(doneL&&!doneR);$('wR').hidden=!(doneR&&!doneL);
   for(const im of G.imgs)if(!im.e.src&&im.top<r+G.vh*2.5)im.e.src=im.e.dataset.src;   // 보이는 근처만 읽기
-  segMark(g,l,r);
+  segMark(g,l,r,doneL&&!doneR,doneR&&!doneL);
   track(r);
 }
 // 같은 영역 표시: 지금 구간을 양쪽에 같은 색 테두리 + 같은 이름표(번호 · 섹션 제목)로
 let lastSeg=-1;
-function segMark(g,l,r){
+function segMark(g,l,r,waitL,waitR){
   if(g.n!==lastSeg){lastSeg=g.n;['segL','segR'].forEach(id=>{const e=$(id);e.classList.remove('pop');void e.offsetWidth;e.classList.add('pop');});}
   const col=SEG_COLORS[g.n%SEG_COLORS.length],num=g.n+1;
   [['L',g.l-l,g.dl],['R',g.r-r,g.dr]].forEach(([k,y,h])=>{
     const box=$('seg'+k),tag=$('segTag'+k);
     box.hidden=h<2;box.style.borderColor=col;box.style.top=y+'px';box.style.height=h+'px';
     tag.style.background=col;tag.style.top=Math.max(6,Math.min(y+6,G.vh-30))+'px';
-    tag.textContent=h<2?`${num} · ${g.label} — ${t(k==='L'?'segNoneL':'segNoneR')}`:`${num} · ${g.label}`;
+    // 기다리는 쪽은 이름표에 「기다리는 중」 (따로 배지를 두지 않는다)
+    tag.textContent=h<2?`${num} · ${g.label} — ${t(k==='L'?'segNoneL':'segNoneR')}`:`${num} · ${g.label}`+((k==='L'?waitL:waitR)?` · ${t('waitShort')}`:'');
   });
   const mkR=$('mvR').querySelector('.mk');$('segR').style.left=mkR.offsetLeft+'px';$('segR').style.width=mkR.clientWidth+'px';
   const cr=$('mvL').querySelector('.crop');if(cr){$('segL').style.left=cr.offsetLeft+'px';$('segL').style.width=cr.clientWidth+'px';}
@@ -584,9 +587,9 @@ function renderBar(){
   if(!C)return;const p=C.p,s=stOf(p),done=s==='ok',both=CHS.every(ready),pr=progress();
   const stale=CHS.some(ch=>C.st[ch]&&C.st[ch].state==='stale');
   const why=done?t('whyDone'):stale?t('whyStale'):!both?t('whyPrep'):pr.flags?t('whyFlag',pr.flags):pr.n<pr.all?t('whyProg',pr.n,pr.all):'';
-  $('bWhy').textContent=why;$('bWhy').hidden=!why;$('bOk').disabled=!!why;$('bRej').disabled=done;$('bUndo').hidden=!done;
+  // 버튼 자리는 늘 같다: 오른쪽 아래 [반려 | 승인 취소] [승인]. 승인을 못 하는 까닭은 버튼 위 한 줄로
+  $('bWhy').textContent=why;$('bOk').disabled=!!why;$('bRej').hidden=done;$('bUndo').hidden=!done;
   $('cSt').innerHTML=stBadge(p);
-  $('cBuild').innerHTML=done?`<span class="badge b-ok">${t('bOpen')}</span>`:S.gate?`<span class="badge b-lock" title="${esc(t('bLockT'))}">${t('bLock')}</span>`:`<span class="badge b-q">${t('bLockOff')}</span>`;
 }
 async function decide(state,via){
   const c=$('cmt');
